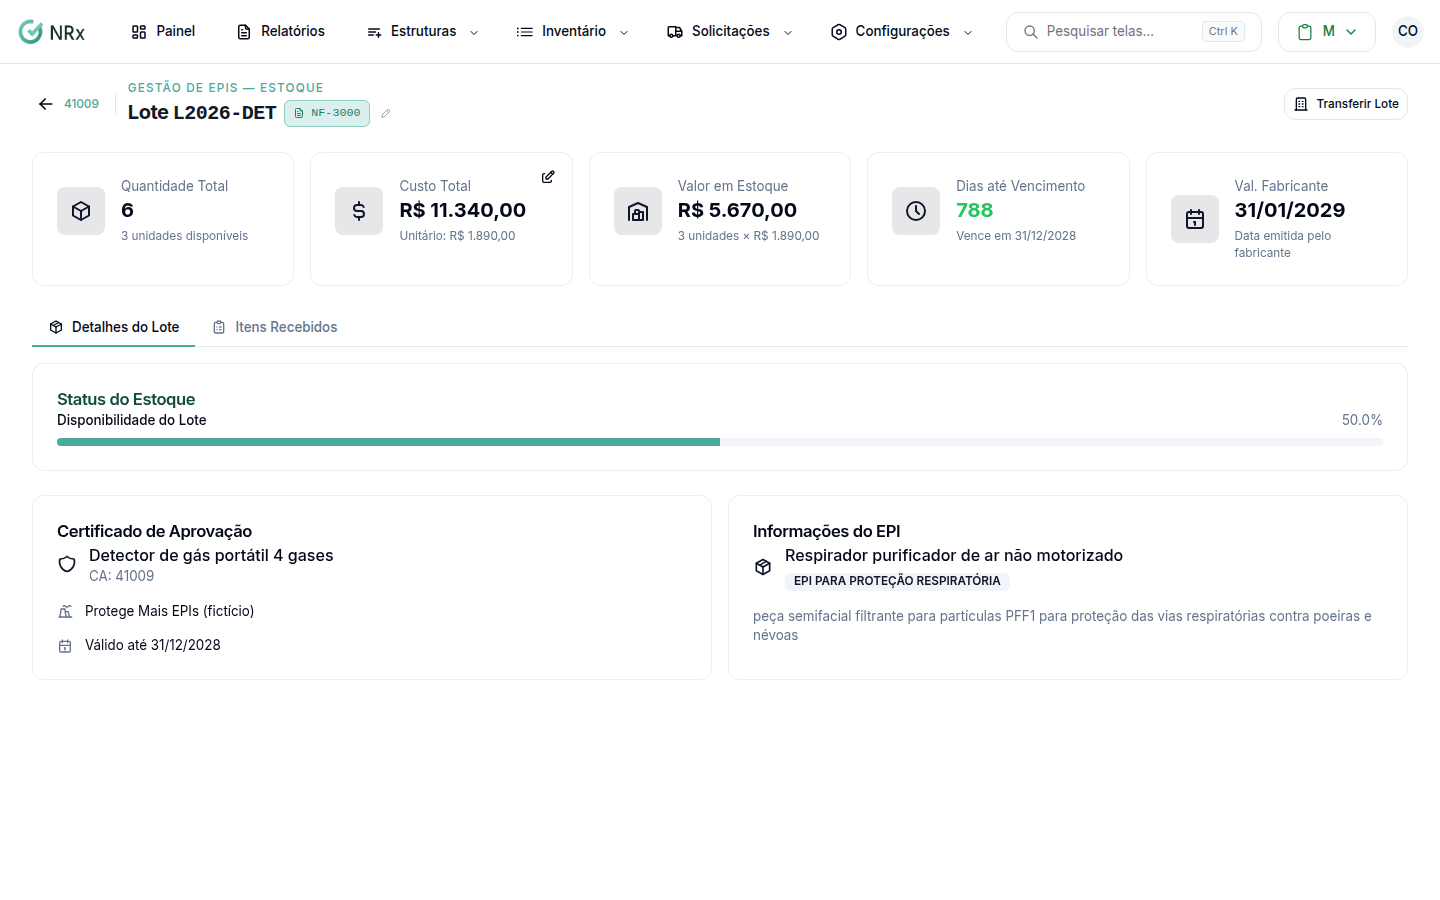
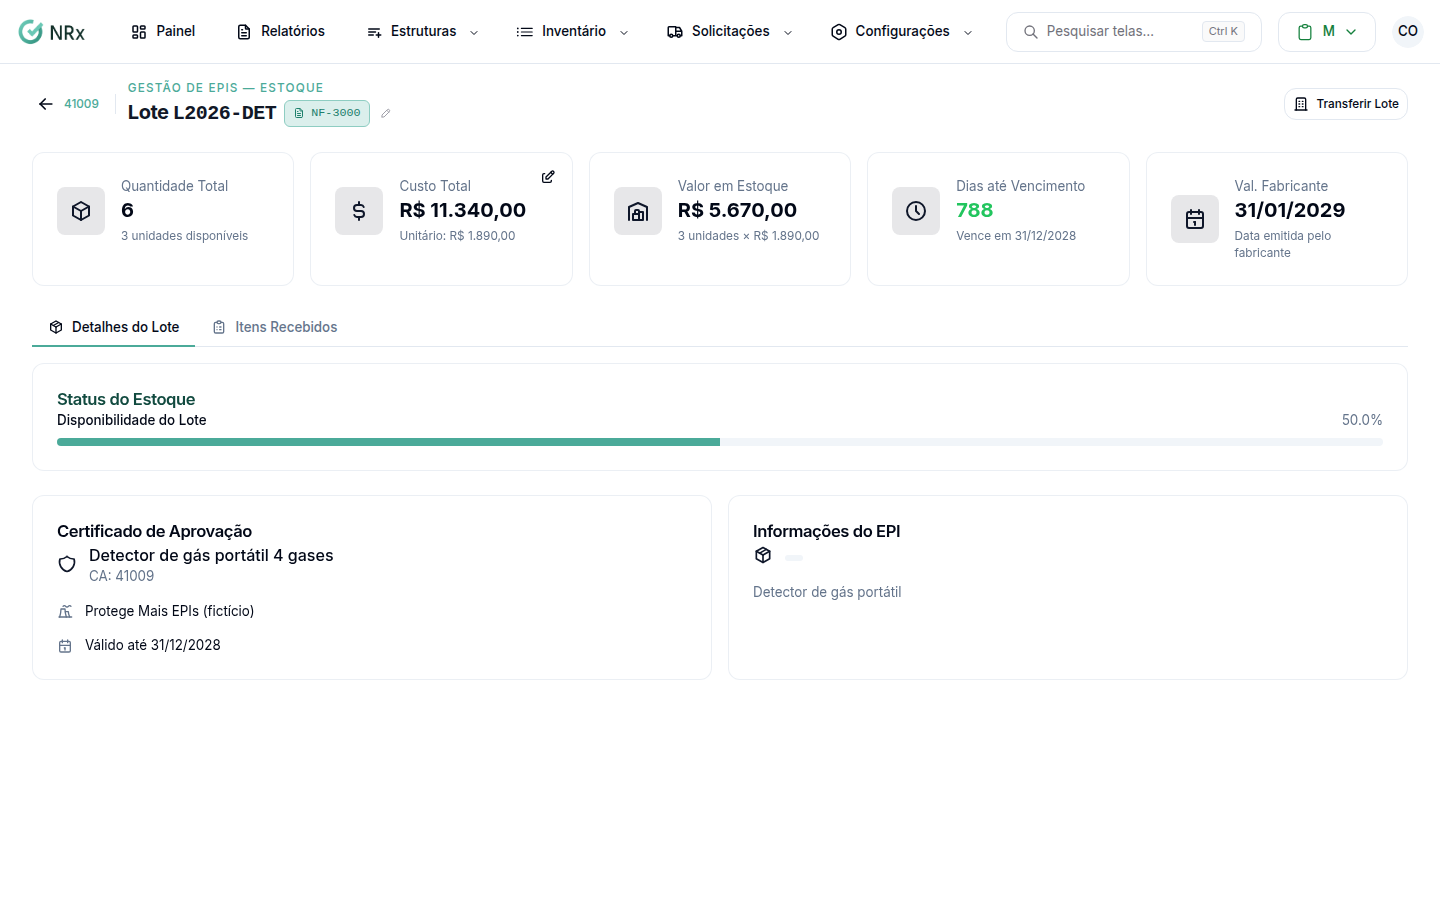
docs: prints de Acidentes e EPI; botões do cabeçalho da ocorrência por status

diff --git a/acidentes/ocorrencias/mudar-status.md b/acidentes/ocorrencias/mudar-status.md
@@ -39,17 +39,21 @@ layout:
 {% step %}
 ### Mude o status
 
-No cabeçalho da ocorrência, clique em **Mudar status**. Escolha o novo status, escreva a **Observação** e clique em **Registrar**.
+No cabeçalho da ocorrência, clique em **Mudar status** e escolha o novo status no menu. Aparece "Ocorrência em" seguido do novo status.
 
-<figure><img src="../.gitbook/assets/ocorrencia-status-01.png" alt="Cabeçalho da ocorrência com Mudar status, Verificar eficácia, Relatório de investigação e Cancelar ocorrência"><figcaption><p>Cabeçalho da ocorrência</p></figcaption></figure>
+<figure><img src="../.gitbook/assets/ocorrencia-status-01.png" alt="Cabeçalho de uma ocorrência em investigação com Relatório de investigação, Refazer triagem e Mudar status"><figcaption><p>Cabeçalho da ocorrência</p></figcaption></figure>
 {% endstep %}
 
 {% step %}
 ### Verifique a eficácia (quando chegar a hora)
 
-Clique em **Verificar eficácia** e registre. Aparece "Verificação de eficácia registrada.".
+Quando a ocorrência está concluída e chega a data de verificar a eficácia, aparece **Verificar eficácia** no cabeçalho. Clique e registre. Aparece "Verificação de eficácia registrada.".
 {% endstep %}
 {% endstepper %}
+
+{% hint style="info" %}
+**O que aparece em cada status:** **Relatório de investigação** aparece sempre. **Triar** (ou **Refazer triagem**) e **Cancelar ocorrência** só aparecem enquanto a ocorrência não está concluída nem cancelada. **Verificar eficácia** só aparece na ocorrência concluída, a partir da data de verificação.
+{% endhint %}
 
 ## Dúvidas comuns
 
@@ -57,7 +61,7 @@ Clique em **Verificar eficácia** e registre. Aparece "Verificação de eficáci
 
 <summary>Como cancelo uma ocorrência?</summary>
 
-Clique em **Cancelar ocorrência**. O sistema avisa: "A ocorrência sai das listas de pendências. Não é possível cancelar com CAT já comunicada."
+Clique em **Mudar status** e, no fim do menu, em **Cancelar ocorrência**. O sistema avisa: "A ocorrência sai das listas de pendências. Não é possível cancelar com CAT já comunicada."
 
 </details>
 
@@ -65,7 +69,7 @@ Clique em **Cancelar ocorrência**. O sistema avisa: "A ocorrência sai das list
 
 <summary>Preciso voltar a investigar.</summary>
 
-Use **Reabrir (em investigação)**.
+Na ocorrência concluída, clique em **Mudar status** e escolha **Reabrir (em investigação)**.
 
 </details>
 
